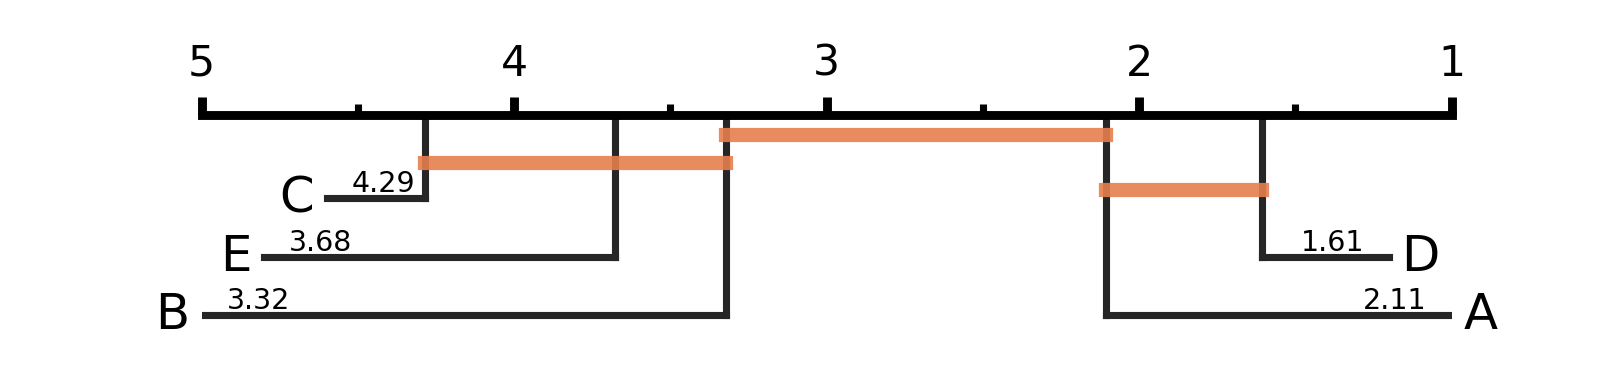
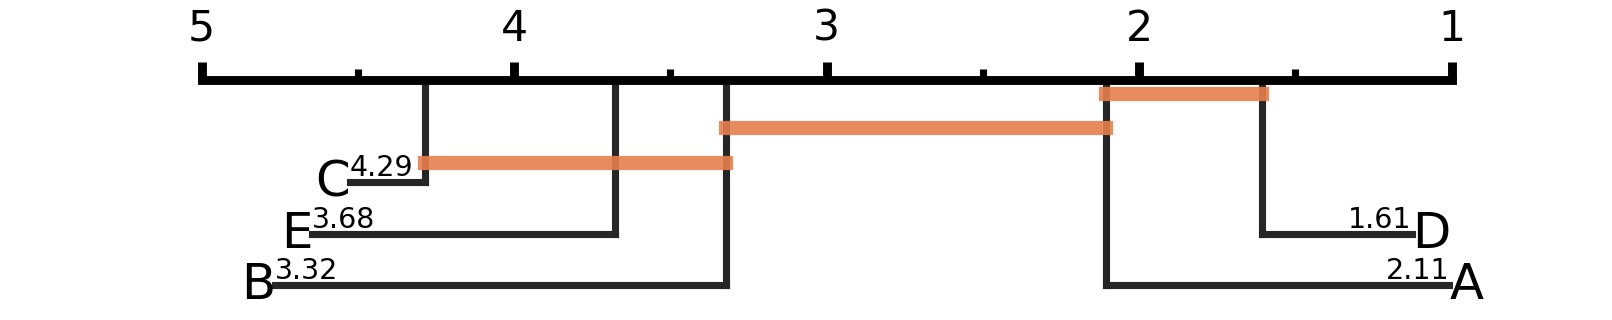
v1.0.2: change cdd plot spacing

diff --git a/classically/cdd.py b/classically/cdd.py
@@ -183,13 +183,14 @@ def critical_difference_diagram(
 
     # initialize and configure plot
     width = 6 + 0.3 * max(map(len, labels))
-    height = 1.0 + n_classifiers * 0.1
+    height = 1.0 + n_classifiers * 0.05
     fig, ax = plt.subplots(1, 1, figsize=(width, height))
     if axis is not None:
         ax = axis
 
-    lowest_rank = min(1, int(np.floor(avg_ranks.min())))
-    highest_rank = max(len(avg_ranks), int(np.ceil(avg_ranks.max())))
+    min_rank = int(np.floor(avg_ranks.min()))
+    max_rank = int(np.ceil(avg_ranks.max()))
+    rank_span = max_rank - min_rank
 
     ax.xaxis.set_major_locator(ticker.MultipleLocator(1))
     ax.xaxis.set_minor_locator(ticker.MultipleLocator(0.5))
@@ -201,61 +202,51 @@ def critical_difference_diagram(
     ax.xaxis.set_ticks_position('top')
     ax.tick_params(which='major', width=2.5, length=5, labelsize=12)
     ax.tick_params(which='minor', width=2.0, length=3, labelsize=12)
-    ax.set_xlim(highest_rank, lowest_rank)
+    ax.set_xlim(max_rank, min_rank)
     ax.set_ylim(0.0, 1.0)
 
-    fig.subplots_adjust(bottom=-0.6, top=0.7)
-
-    # visual configurations
     half = int(np.ceil(n_classifiers / 2))
-    label_xshift = 0.05 * (highest_rank-lowest_rank)
-    rank_label_xshift = 0.02 * (highest_rank-lowest_rank)
-    label_offset = 0.01 * (highest_rank-lowest_rank)
-    lower_marking = 0.6
-    markings_vspace = 0.35 / half
+
+    # visual configurations for markings
+    label_left = avg_ranks[avg_ranks_order[0]] + .06*rank_span
+    label_right = avg_ranks[avg_ranks_order[-1]] - .06*rank_span
+    label_hshift = .03*rank_span
+    marking_vspacing = 1 / (half + 1)
+
     color_markings = (
-        (0.15, 0.15, 0.15, 1.0) if color_markings is None else
-        color_markings
+        (.15, .15, .15, 1.) if color_markings is None else color_markings
     )
-    cliques_color = (
-        (0.9, 0.5, 0.3, 0.9) if color_cliques is None else color_cliques
-    )
-    first_clique_line = 0.9 + (len(cliques) + 3) / 100
-    if len(cliques) >= 4:
-        first_clique_line = 0.96
-    clique_line_vspace = (
-        1 - (lower_marking + (half-1) * markings_vspace) - 0.001
-    )
-    if len(cliques) > 0:
-        clique_line_vspace /= len(cliques)
 
     # draw left branching markings
     for i, index in enumerate(avg_ranks_order[:half]):
-        ax.axvline(
-            x=avg_ranks[index],
-            ymin=lower_marking + (half-i-1)*markings_vspace,
-            ymax=1.0,
+        rank = avg_ranks[index]
+        ax.plot(
+            (rank, rank),
+            ((half-i-1)*marking_vspacing, 1.0),
+            "-",
             c=color_markings,
             lw=2.0,
+            clip_on=False,
         )
-        ax.axhline(
-            y=lower_marking + (half-i-1)*markings_vspace,
-            xmin=(half-i-1) * label_xshift / (highest_rank-lowest_rank),
-            xmax=(highest_rank-avg_ranks[index]) / (highest_rank-lowest_rank),
+        ax.plot(
+            (label_left + i * label_hshift, rank),
+            ((half-i-1)*marking_vspacing, (half-i-1)*marking_vspacing),
+            "-",
             c=color_markings,
             lw=2.0,
+            clip_on=False,
         )
         ax.text(
-            x=highest_rank - rank_label_xshift - (half-i-1)*label_xshift,
-            y=lower_marking + (half-i-1)*markings_vspace,
+            x=label_left + i * label_hshift,
+            y=(half-i-1) * marking_vspacing,
             s=f"{avg_ranks[index]:.2f}",
             ha="left",
             va="bottom",
             size=8,
         )
         ax.text(
-            x=highest_rank - (half-i-1)*label_xshift + label_offset,
-            y=lower_marking + (half-i-1)*markings_vspace,
+            x=label_left + i * label_hshift,
+            y=(half-i-1) * marking_vspacing,
             s=f"{labels[index]}",
             ha="right",
             va="center",
@@ -264,55 +255,73 @@ def critical_difference_diagram(
 
     # draw right branching markings
     for i, index in enumerate(avg_ranks_order[half:]):
-        ax.axvline(
-            x=avg_ranks[index],
-            ymin=lower_marking + i*markings_vspace,
-            ymax=1.0,
+        j = half-i
+        rank = avg_ranks[index]
+        ax.plot(
+            (rank, rank),
+            (i*marking_vspacing, 1.0),
+            "-",
             c=color_markings,
             lw=2.0,
+            clip_on=False,
         )
-        ax.axhline(
-            y=lower_marking + i*markings_vspace,
-            xmin=(highest_rank-avg_ranks[index]) / (highest_rank-lowest_rank),
-            xmax=1.0 - i * label_xshift / (highest_rank-lowest_rank),
+        ax.plot(
+            (label_right - j * label_hshift, rank),
+            (i*marking_vspacing, i*marking_vspacing),
+            "-",
             c=color_markings,
             lw=2.0,
+            clip_on=False,
         )
         ax.text(
-            x=lowest_rank + rank_label_xshift + i*label_xshift,
-            y=lower_marking + i*markings_vspace,
-            s=f"{avg_ranks[index]:.2f}",
+            x=label_right - j * label_hshift,
+            y=i * marking_vspacing,
+            s=f"{rank:.2f}",
             ha="right",
             va="bottom",
             size=8,
         )
         ax.text(
-            x=lowest_rank + i*label_xshift - label_offset,
-            y=lower_marking + i*markings_vspace,
+            x=label_right - j * label_hshift,
+            y=i * marking_vspacing,
             s=f"{labels[index]}",
             ha="left",
             va="center",
             size=14,
         )
 
+    # visual configurations for cliques
+    color_cliques = (
+        (.9, .5, .3, .9) if color_cliques is None else color_cliques
+    )
+
+    first_clique_line = 0.9 + (len(cliques)) / 100
+    if len(cliques) >= 4:
+        first_clique_line = 0.95
+    clique_line_vspace = 1. - ((half - 1) * marking_vspacing)
+    if len(cliques) > 0:
+        clique_line_vspace /= len(cliques)
+
     # draw the cliques, i.e. connect classifiers that don't have a
     # significant difference
     clique_line_y = first_clique_line
     for clique in cliques:
         xmin = (
-            highest_rank - avg_ranks[max(clique, key=lambda i: avg_ranks[i])]
-        ) / (highest_rank - lowest_rank)
+            max_rank - avg_ranks[max(clique, key=lambda i: avg_ranks[i])]
+        ) / (max_rank - min_rank)
         xmax = (
-            highest_rank - avg_ranks[min(clique, key=lambda i: avg_ranks[i])]
-        ) / (highest_rank - lowest_rank)
+            max_rank - avg_ranks[min(clique, key=lambda i: avg_ranks[i])]
+        ) / (max_rank - min_rank)
         ax.axhline(
             y=clique_line_y,
             xmin=xmin,
             xmax=xmax,
-            color=cliques_color,
+            color=color_cliques,
             linewidth=4.0,
         )
         clique_line_y -= clique_line_vspace
+
+    fig.subplots_adjust(top=.75)
 
     if axis is None:
         return fig, ax
